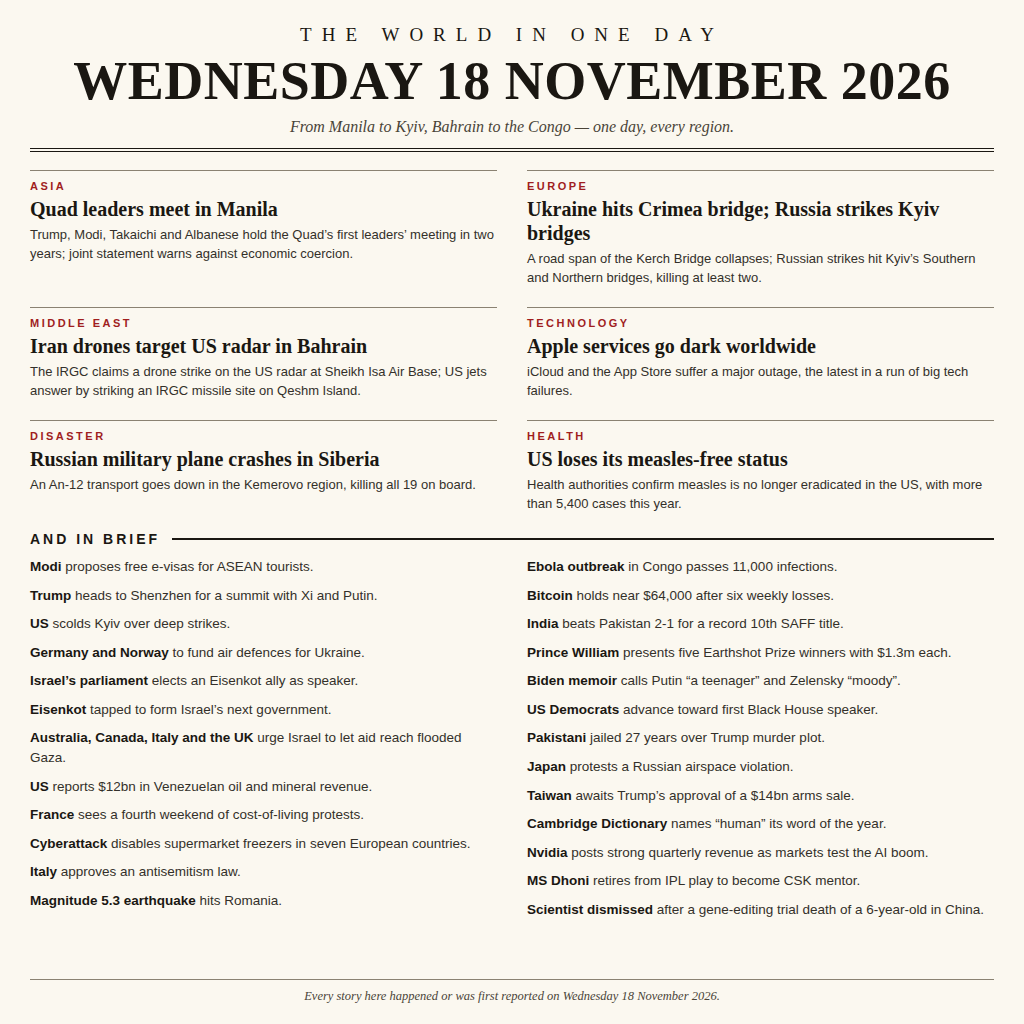
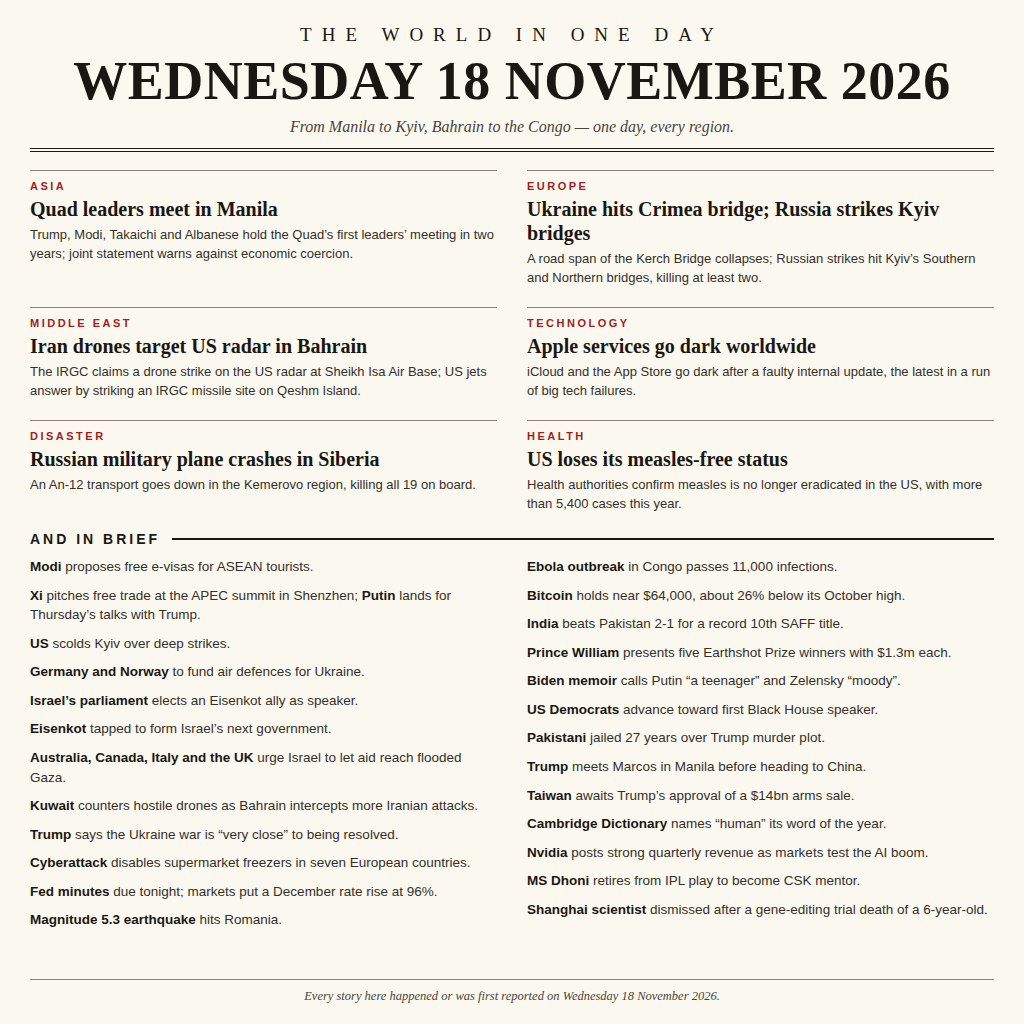
v2: full-day 18 Nov news — Shenzhen summit, Gulf drones, Fed minutes; soften Bitcoin

diff --git a/build/frontpage.html b/build/frontpage.html
@@ -58,7 +58,7 @@
     <div class="story">
       <div class="tag">TECHNOLOGY</div>
       <h2>Apple services go dark worldwide</h2>
-      <p>iCloud and the App Store suffer a major outage, the latest in a run of big tech failures.</p>
+      <p>iCloud and the App Store go dark after a faulty internal update, the latest in a run of big tech failures.</p>
     </div>
     <div class="story">
       <div class="tag">DISASTER</div>
@@ -75,30 +75,30 @@
   <div class="briefs-head"><span>AND IN BRIEF</span><div class="rule"></div></div>
   <div class="briefs">
     <p><b>Modi</b> proposes free e-visas for ASEAN tourists.</p>
-    <p><b>Trump</b> heads to Shenzhen for a summit with Xi and Putin.</p>
+    <p><b>Xi</b> pitches free trade at the APEC summit in Shenzhen; <b>Putin</b> lands for Thursday&rsquo;s talks with Trump.</p>
     <p><b>US</b> scolds Kyiv over deep strikes.</p>
     <p><b>Germany and Norway</b> to fund air defences for Ukraine.</p>
     <p><b>Israel&rsquo;s parliament</b> elects an Eisenkot ally as speaker.</p>
     <p><b>Eisenkot</b> tapped to form Israel&rsquo;s next government.</p>
     <p><b>Australia, Canada, Italy and the UK</b> urge Israel to let aid reach flooded Gaza.</p>
-    <p><b>US</b> reports $12bn in Venezuelan oil and mineral revenue.</p>
-    <p><b>France</b> sees a fourth weekend of cost-of-living protests.</p>
+    <p><b>Kuwait</b> counters hostile drones as Bahrain intercepts more Iranian attacks.</p>
+    <p><b>Trump</b> says the Ukraine war is &ldquo;very close&rdquo; to being resolved.</p>
     <p><b>Cyberattack</b> disables supermarket freezers in seven European countries.</p>
-    <p><b>Italy</b> approves an antisemitism law.</p>
+    <p><b>Fed minutes</b> due tonight; markets put a December rate rise at 96%.</p>
     <p><b>Magnitude 5.3 earthquake</b> hits Romania.</p>
     <p><b>Ebola outbreak</b> in Congo passes 11,000 infections.</p>
-    <p><b>Bitcoin</b> holds near $64,000 after six weekly losses.</p>
+    <p><b>Bitcoin</b> holds near $64,000, about 26% below its October high.</p>
     <p><b>India</b> beats Pakistan 2-1 for a record 10th SAFF title.</p>
     <p><b>Prince William</b> presents five Earthshot Prize winners with $1.3m each.</p>
     <p><b>Biden memoir</b> calls Putin &ldquo;a teenager&rdquo; and Zelensky &ldquo;moody&rdquo;.</p>
     <p><b>US Democrats</b> advance toward first Black House speaker.</p>
     <p><b>Pakistani</b> jailed 27 years over Trump murder plot.</p>
-    <p><b>Japan</b> protests a Russian airspace violation.</p>
+    <p><b>Trump</b> meets Marcos in Manila before heading to China.</p>
     <p><b>Taiwan</b> awaits Trump&rsquo;s approval of a $14bn arms sale.</p>
     <p><b>Cambridge Dictionary</b> names &ldquo;human&rdquo; its word of the year.</p>
     <p><b>Nvidia</b> posts strong quarterly revenue as markets test the AI boom.</p>
     <p><b>MS Dhoni</b> retires from IPL play to become CSK mentor.</p>
-    <p><b>Scientist dismissed</b> after a gene-editing trial death of a 6-year-old in China.</p>
+    <p><b>Shanghai scientist</b> dismissed after a gene-editing trial death of a 6-year-old.</p>
   </div>
 
   <div class="footer">Every story here happened or was first reported on Wednesday 18 November 2026.</div>
